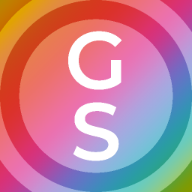
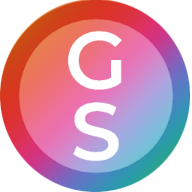
Image updated

Changed region(s): [[0.5312, 0.0, 1.0, 1.0], [0.0, 0.5312, 0.4688, 1.0], [0.0, 0.0, 0.4062, 0.4688]]

diff --git a/index.html b/index.html
@@ -1,20 +1,24 @@
-<!-- 
-TODO:
-  Bulle à la bonne taille en format vertical ✅
-  Libellés sur les ronds
-  Version FR (+ CV en EN)
--->
-
-
 <!DOCTYPE html>
 <html>
 
 <head>
   <title>G.S</title>
-  <link rel="apple-touch-icon" sizes="180x180" href="/apple-touch-icon.png">
+  <link rel="apple-touch-icon" sizes="57x57" href="/apple-icon-57x57.png">
+  <link rel="apple-touch-icon" sizes="60x60" href="/apple-icon-60x60.png">
+  <link rel="apple-touch-icon" sizes="72x72" href="/apple-icon-72x72.png">
+  <link rel="apple-touch-icon" sizes="76x76" href="/apple-icon-76x76.png">
+  <link rel="apple-touch-icon" sizes="114x114" href="/apple-icon-114x114.png">
+  <link rel="apple-touch-icon" sizes="120x120" href="/apple-icon-120x120.png">
+  <link rel="apple-touch-icon" sizes="144x144" href="/apple-icon-144x144.png">
+  <link rel="apple-touch-icon" sizes="152x152" href="/apple-icon-152x152.png">
+  <link rel="apple-touch-icon" sizes="180x180" href="/apple-icon-180x180.png">
+  <link rel="icon" type="image/png" sizes="192x192"  href="/android-icon-192x192.png">
   <link rel="icon" type="image/png" sizes="32x32" href="/favicon-32x32.png">
+  <link rel="icon" type="image/png" sizes="96x96" href="/favicon-96x96.png">
   <link rel="icon" type="image/png" sizes="16x16" href="/favicon-16x16.png">
-  <link rel="manifest" href="/site.webmanifest">
+  <link rel="manifest" href="/manifest.json">
+  <meta name="msapplication-TileColor" content="#ffffff">
+  <meta name="msapplication-TileImage" content="/ms-icon-144x144.png">
   <meta charset="utf-8" />
   <meta name="viewport" content="width=device-width, initial-scale=1, user-scalable=no" />
   <!--<link rel="stylesheet" href="https://cdn.jsdelivr.net/npm/bulma@0.9.3/css/bulma.min.css">-->
